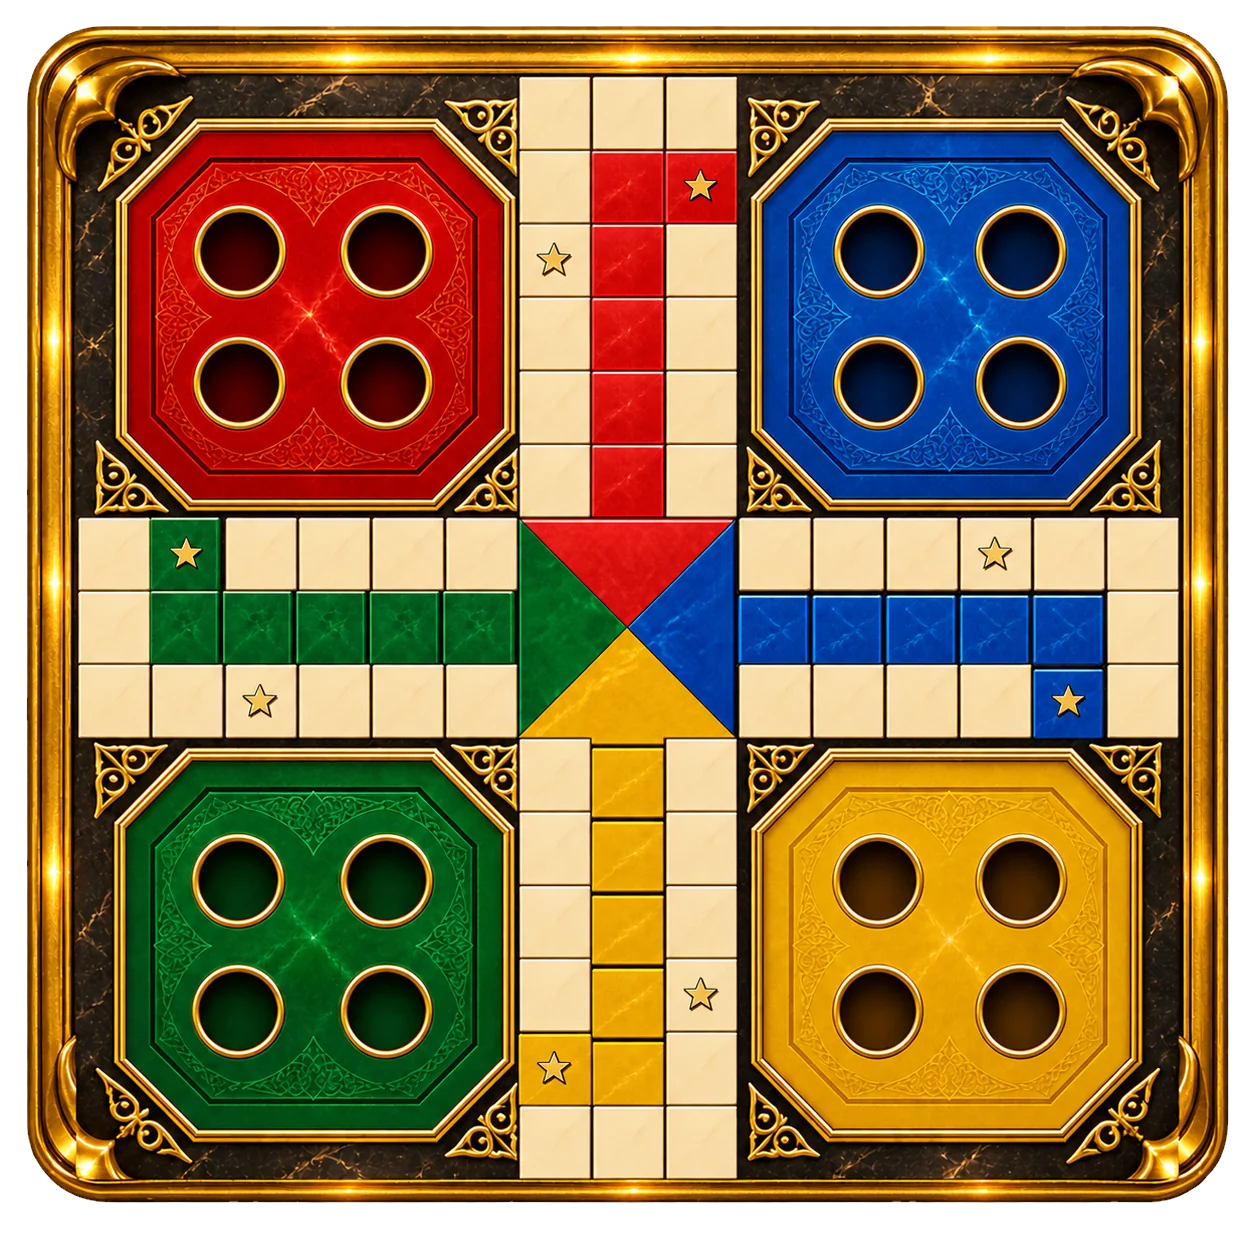
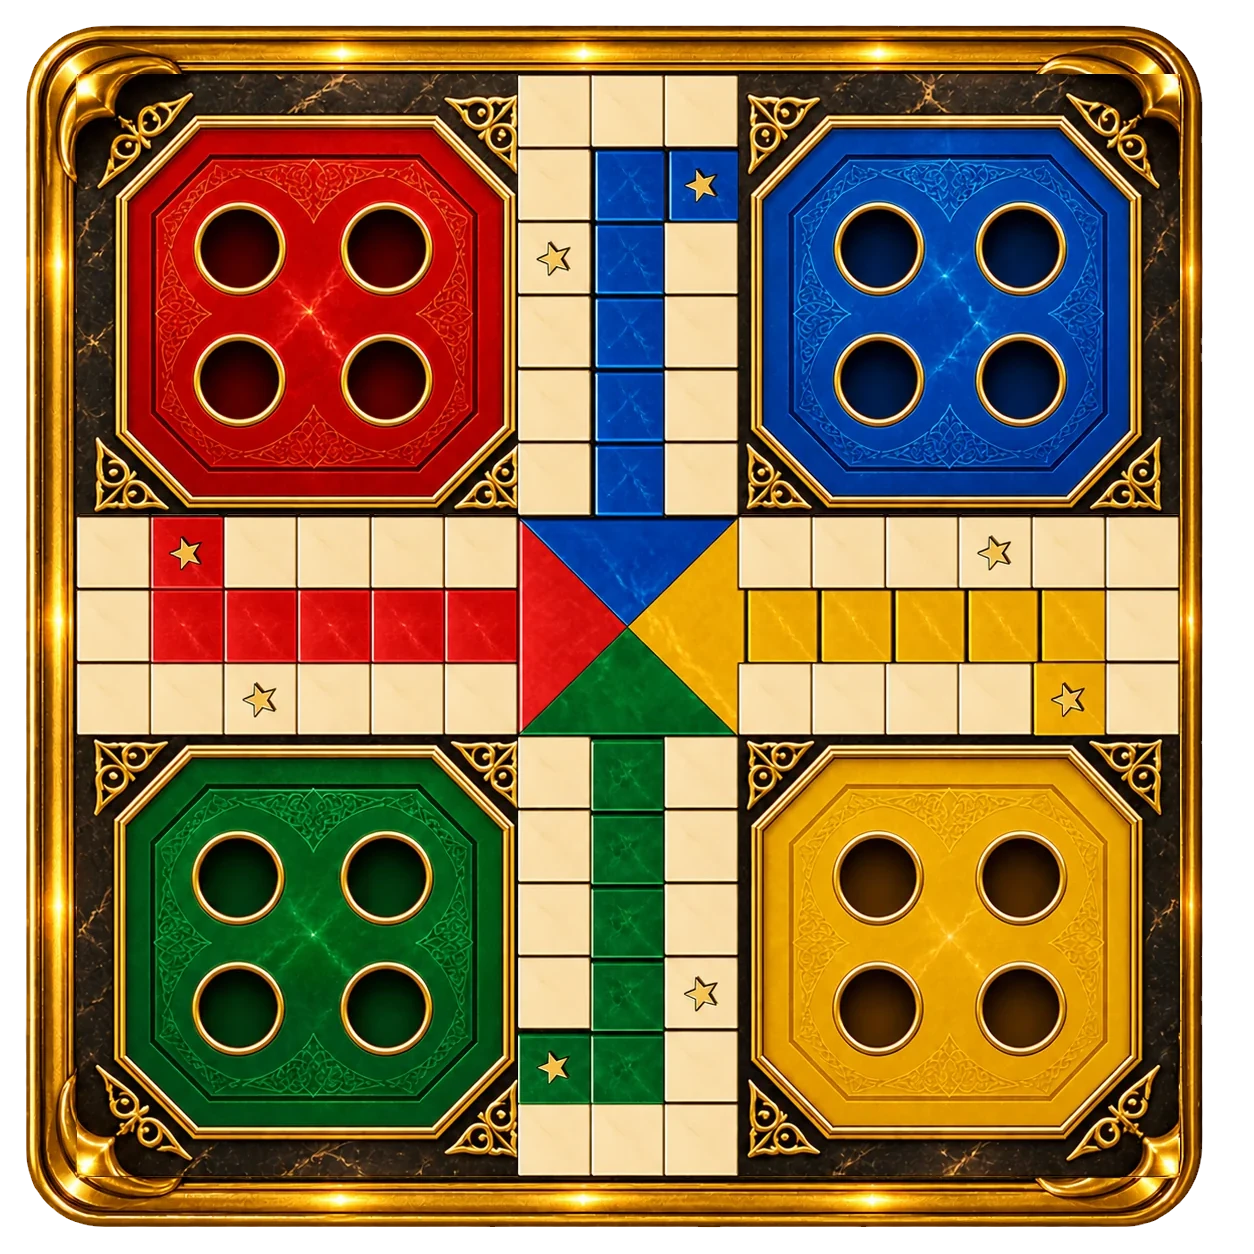
Ludo: fix the board so each colour starts beside its own yard (#340)
The picture had every colour's start square and home column next to the
neighbouring colour's yard. Yards turned one corner and the board a
quarter turn so red is top-left with its column on the left arm, as on a
standard board. Rules numbering is unchanged; art coordinates, manifest and
tests follow. The board now sits above the dice and pawn buttons so a phone
shows all of it.

Claude-Session: https://claude.ai/code/session_01Ltsntf9z9zrXE3MxpyyaSF

diff --git a/lib/features/games/data/ludo_board_art.dart b/lib/features/games/data/ludo_board_art.dart
@@ -11,12 +11,14 @@
 ///
 /// Layout (cells): arms 6 long and 3 wide; yards 6 x 6 in the corners:
 /// Red top-left (0-5, 0-5), Blue top-right (9-14, 0-5), Yellow bottom-right
-/// (9-14, 9-14), Green bottom-left (0-5, 9-14).
+/// (9-14, 9-14), Green bottom-left (0-5, 9-14). Each colour's start square and
+/// home column are on the arm beside its own yard, as on a standard board:
 ///
-/// Home columns (five coloured squares leading to the centre): Red column 7
-/// rows 1-5, Blue row 7 cols 13..9, Yellow column 7 rows 13..9, Green row 7
-/// cols 1-5. Start squares: Red (8,1), Blue (13,8), Yellow (6,13), Green
-/// (1,6). Gold stars: those four plus (6,2), (12,6), (8,12), (2,8).
+/// Home columns (five coloured squares leading to the centre): Red row 7
+/// cols 1-5 (left arm), Blue column 7 rows 1-5 (top arm), Yellow row 7 cols
+/// 13..9 (right arm), Green column 7 rows 13..9 (bottom arm). Start squares:
+/// Red (1,6), Blue (8,1), Yellow (13,8), Green (6,13). Gold stars: those four
+/// plus (2,8), (6,2), (12,6), (8,12).
 library;
 
 import 'ludo_rules.dart';
@@ -72,8 +74,8 @@ abstract final class LudoBoardArt {
 
   /// Size of the picture and of its square playing grid (measured).
   static const double imageSize = 1254;
-  static const double gridLeft = 76.83;
-  static const double gridTop = 76.69;
+  static const double gridLeft = 76.69;
+  static const double gridTop = 73.77;
   static const double cell = 73.56;
   static const int gridCells = 15;
 
@@ -84,6 +86,18 @@ abstract final class LudoBoardArt {
   /// The 52 squares of the shared loop, clockwise from the top of the top
   /// arm, (8,0). Index = [LudoRules] loop square.
   static final List<LudoCell> loop = List<LudoCell>.unmodifiable(<LudoCell>[
+    for (final LudoCell c in _loopUnrotated) _turn(c),
+  ]);
+
+  /// The picture is the board turned a quarter turn anticlockwise (so each
+  /// colour's start square and home column sit beside its own yard, red at
+  /// the top left with its column on the left arm). Squares are written
+  /// below for the upright board and turned here: (col, row) -> (row,
+  /// 14 - col). A turn keeps the clockwise order, so the loop numbers, the
+  /// start squares by number and the safe squares by number do not change.
+  static LudoCell _turn(LudoCell c) => LudoCell(c.row, 14 - c.col);
+
+  static final List<LudoCell> _loopUnrotated = <LudoCell>[
     for (int r = 0; r <= 5; r++) LudoCell(8, r), //            0-5
     for (int c = 9; c <= 14; c++) LudoCell(c, 6), //           6-11
     const LudoCell(14, 7), //                                  12
@@ -96,11 +110,20 @@ abstract final class LudoBoardArt {
     for (int c = 0; c <= 5; c++) LudoCell(c, 6), //            39-44
     for (int r = 5; r >= 0; r--) LudoCell(6, r), //            45-50
     const LudoCell(7, 0), //                                   51
-  ]);
+  ];
 
   /// Home-column squares per colour (red, blue, yellow, green), in walking
   /// order from the square after the entry square to the last one.
-  static const List<List<LudoCell>> column = <List<LudoCell>>[
+  static final List<List<LudoCell>> column = List<List<LudoCell>>.unmodifiable(
+    <List<LudoCell>>[
+      for (final List<LudoCell> col in _columnUnrotated)
+        List<LudoCell>.unmodifiable(<LudoCell>[
+          for (final LudoCell c in col) _turn(c),
+        ]),
+    ],
+  );
+
+  static const List<List<LudoCell>> _columnUnrotated = <List<LudoCell>>[
     <LudoCell>[
       LudoCell(7, 1), LudoCell(7, 2), LudoCell(7, 3), LudoCell(7, 4),
       LudoCell(7, 5),
@@ -121,12 +144,12 @@ abstract final class LudoBoardArt {
 
   /// Start squares per colour.
   static const List<LudoCell> start = <LudoCell>[
-    LudoCell(8, 1), LudoCell(13, 8), LudoCell(6, 13), LudoCell(1, 6),
+    LudoCell(1, 6), LudoCell(8, 1), LudoCell(13, 8), LudoCell(6, 13),
   ];
 
   /// The four stars that are not start squares.
   static const List<LudoCell> extraStars = <LudoCell>[
-    LudoCell(6, 2), LudoCell(12, 6), LudoCell(8, 12), LudoCell(2, 8),
+    LudoCell(2, 8), LudoCell(6, 2), LudoCell(12, 6), LudoCell(8, 12),
   ];
 
   /// The four pawn sockets of each yard, per colour, token 0..3 (top left,
@@ -162,10 +185,10 @@ abstract final class LudoBoardArt {
   ];
 
   /// Where finished pawns of each colour rest: the middle of its triangle of
-  /// the centre square (cell units): red top, blue right, yellow bottom,
-  /// green left.
+  /// the centre square (cell units): red left, blue top, yellow right,
+  /// green bottom.
   static const List<(double, double)> homeUnits = <(double, double)>[
-    (7.5, 6.55), (8.45, 7.5), (7.5, 8.45), (6.55, 7.5),
+    (6.55, 7.5), (7.5, 6.55), (8.45, 7.5), (7.5, 8.45),
   ];
 
   /// Offsets, in cells, of up to four finished pawns around a triangle's

diff --git a/test/games/ludo_board_art_test.dart b/test/games/ludo_board_art_test.dart
@@ -92,29 +92,29 @@ void main() {
         expect(LudoBoardArt.loop[LudoRules.startCell[c]], LudoBoardArt.start[c]);
       }
       expect(LudoBoardArt.start, const <LudoCell>[
+        LudoCell(1, 6),
         LudoCell(8, 1),
         LudoCell(13, 8),
         LudoCell(6, 13),
-        LudoCell(1, 6),
       ]);
       final Set<LudoCell> safe = <LudoCell>{
         for (final int i in LudoRules.safeCells) LudoBoardArt.loop[i],
       };
       expect(safe, <LudoCell>{...LudoBoardArt.start, ...LudoBoardArt.extraStars});
       expect(LudoBoardArt.extraStars.toSet(), <LudoCell>{
+        const LudoCell(2, 8),
         const LudoCell(6, 2),
         const LudoCell(12, 6),
         const LudoCell(8, 12),
-        const LudoCell(2, 8),
       });
     });
 
     test('home columns: 5 squares each, leading from the entry to the centre', () {
       const List<List<LudoCell>> expected = <List<LudoCell>>[
+        <LudoCell>[LudoCell(1, 7), LudoCell(2, 7), LudoCell(3, 7), LudoCell(4, 7), LudoCell(5, 7)],
         <LudoCell>[LudoCell(7, 1), LudoCell(7, 2), LudoCell(7, 3), LudoCell(7, 4), LudoCell(7, 5)],
         <LudoCell>[LudoCell(13, 7), LudoCell(12, 7), LudoCell(11, 7), LudoCell(10, 7), LudoCell(9, 7)],
         <LudoCell>[LudoCell(7, 13), LudoCell(7, 12), LudoCell(7, 11), LudoCell(7, 10), LudoCell(7, 9)],
-        <LudoCell>[LudoCell(1, 7), LudoCell(2, 7), LudoCell(3, 7), LudoCell(4, 7), LudoCell(5, 7)],
       ];
       for (int c = 0; c < 4; c++) {
         expect(LudoBoardArt.column[c], expected[c]);
@@ -229,8 +229,8 @@ void main() {
       }
       // Plain track squares are cream.
       for (final LudoCell cell in <LudoCell>[
-        const LudoCell(6, 0), const LudoCell(8, 3), const LudoCell(3, 6),
-        const LudoCell(11, 8), const LudoCell(8, 10), const LudoCell(6, 11),
+        const LudoCell(0, 8), const LudoCell(3, 6), const LudoCell(6, 11),
+        const LudoCell(8, 3), const LudoCell(10, 6), const LudoCell(11, 8),
       ]) {
         final LudoPt p = at(cell.col, cell.row);
         expect(_classify(px.median(p.x, p.y)), 'cream', reason: '$cell');

diff --git a/lib/features/games/data/ludo_rules.dart b/lib/features/games/data/ludo_rules.dart
@@ -8,8 +8,8 @@
 /// the game (0 .. players-1); each seat plays one colour. Two players sit
 /// opposite each other (red and yellow).
 ///
-/// Loop squares are numbered 0..51 clockwise, starting at the top of the top
-/// arm (col 8, row 0). Each colour's start square is 13 squares after the
+/// Loop squares are numbered 0..51 clockwise, starting at the left end of the
+/// left arm's top row, (0, 6). Each colour's start square is 13 squares after the
 /// previous colour's.
 ///
 /// Token state, per colour-independent progress `p`:
@@ -53,7 +53,7 @@ abstract final class LudoRules {
   ];
 
   /// Loop square where each colour's tokens enter the track (colour-indexed):
-  /// red (8,1), blue (13,8), yellow (6,13), green (1,6).
+  /// red (1,6), blue (8,1), yellow (13,8), green (6,13).
   static const List<int> startCell = <int>[1, 14, 27, 40];
 
   /// Loop square after which a colour turns into its home column.
@@ -66,7 +66,7 @@ abstract final class LudoRules {
   static const List<int> columnLen = <int>[5, 5, 5, 5];
 
   /// Safe loop squares: the four starts and the four gold stars
-  /// ((6,2), (12,6), (8,12), (2,8) on the board).
+  /// ((2,8), (6,2), (12,6), (8,12) on the board).
   static const Set<int> safeCells = <int>{1, 9, 14, 22, 27, 35, 40, 48};
 
   /// The colours that play at a table of [players] (2 to 4): opposite corners

diff --git a/lib/features/games/presentation/ludo_screen.dart b/lib/features/games/presentation/ludo_screen.dart
@@ -1077,8 +1077,16 @@ class _LudoState extends State<LudoScreen> {
           ),
         ),
       const SizedBox(height: 8),
-      // The die, Roll and the pawn buttons sit above the board, so on a
-      // phone they are on the first screen and not below the fold.
+      // The board comes first, whole, so a phone shows all of it; the die,
+      // Roll and the pawn buttons sit right under it.
+      LudoBoardView(
+        seats: seats,
+        tokens: tok,
+        movableSeat: turn,
+        movable: movable,
+        onTapToken: _move,
+      ),
+      const SizedBox(height: 12),
       _diceRow(),
       const SizedBox(height: 12),
       Center(
@@ -1104,14 +1112,6 @@ class _LudoState extends State<LudoScreen> {
           textAlign: TextAlign.center,
           style: AppText.bodyMuted.copyWith(fontSize: 12),
         ),
-      const SizedBox(height: 12),
-      LudoBoardView(
-        seats: seats,
-        tokens: tok,
-        movableSeat: turn,
-        movable: movable,
-        onTapToken: _move,
-      ),
     ];
   }
 }
